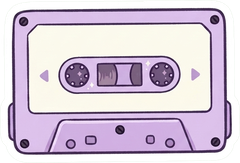
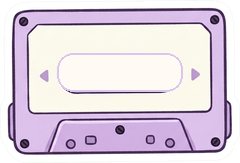
polish(close-v20): animated liquid battery tube, RTL vertical chibi card, clean stickers, compact square music card, chat-width spectrum

Changed region(s): [[0.2333, 0.3067, 0.7875, 0.5828]]

diff --git a/Assets/Xiaoqi/UI2/XqApprovedPresentation.cs b/Assets/Xiaoqi/UI2/XqApprovedPresentation.cs
@@ -125,29 +125,55 @@ namespace Xiaoqi.UI2
             infoRow.Add(_locPill); infoRow.Add(_weatherPill);
             _bodyNext.Add(infoRow);
 
-            // V20 右上角：慢慢来 Q 版探头竖卡（独立挂载到 _host）
+            // V20 右上角：慢慢来 Q 版探头竖卡（瘦长粉紫渐变 + 中文从右到左竖排）
             _remindPill.RemoveFromHierarchy();
             _host.Add(_remindPill);
+            _remindPill.Clear();
             _remindPill.style.position = Position.Absolute;
             _remindPill.style.backgroundImage = StyleKeyword.None;
-            _remindPill.style.backgroundColor = new Color(0.97f, 0.94f, 1.00f, 0.94f);
+            _remindPill.style.backgroundColor = Color.clear;
             SetAllBorder(_remindPill, 1.5f, Color.white);
-            SetRadius(_remindPill, 16f);
+            SetRadius(_remindPill, 14f);
             _remindPill.style.marginLeft = _remindPill.style.marginTop = 0f;
-            _remindPill.style.paddingLeft = _remindPill.style.paddingRight = 10f;
-            _remindPill.style.paddingBottom = 10f;
-            _remindPill.style.paddingTop = 44f;
+            _remindPill.style.paddingLeft = _remindPill.style.paddingRight = 6f;
+            _remindPill.style.paddingBottom = 8f;
+            _remindPill.style.paddingTop = 36f;
             _remindPill.style.justifyContent = Justify.Center;
             _remindPill.style.alignItems = Align.Center;
             _remindPill.style.rotate = new UnityEngine.UIElements.Rotate(new Angle(0f, AngleUnit.Degree));
-            var remLbl = _remindPill.Q<Label>();
-            if (remLbl != null)
+            _remindPill.generateVisualContent += mgc =>
             {
-                remLbl.style.whiteSpace = WhiteSpace.Normal;
-                remLbl.style.unityTextAlign = TextAnchor.MiddleCenter;
-                remLbl.style.color = XqMoonStyle.Ink;
-                remLbl.style.unityFontStyleAndWeight = FontStyle.Bold;
+                var r = _remindPill.contentRect;
+                if (r.width < 4f || r.height < 4f) return;
+                var p = mgc.painter2D;
+                const int bands = 24;
+                for (int i = 0; i < bands; i++)
+                {
+                    float t = i / (float)(bands - 1);
+                    p.fillColor = Color.Lerp(new Color(1.00f, 0.90f, 0.96f, 0.95f), new Color(0.90f, 0.87f, 1.00f, 0.95f), t);
+                    float y0 = r.height * (i / (float)bands);
+                    float y1 = r.height * ((i + 1) / (float)bands) + 0.5f;
+                    p.BeginPath();
+                    p.MoveTo(new Vector2(0f, y0)); p.LineTo(new Vector2(r.width, y0));
+                    p.LineTo(new Vector2(r.width, y1)); p.LineTo(new Vector2(0f, y1));
+                    p.ClosePath(); p.Fill();
+                }
+            };
+            var vRow = new VisualElement { pickingMode = PickingMode.Ignore };
+            vRow.style.flexDirection = FlexDirection.Row;
+            vRow.style.justifyContent = Justify.Center;
+            vRow.style.alignItems = Align.FlexStart;
+            var vLeft = new Label("我\n在\n这\n里\n哦") { pickingMode = PickingMode.Ignore };
+            var vRight = new Label("慢\n慢\n来\n，") { pickingMode = PickingMode.Ignore };
+            foreach (var vl in new[] { vLeft, vRight })
+            {
+                vl.style.color = XqMoonStyle.Ink;
+                vl.style.unityFontStyleAndWeight = FontStyle.Bold;
+                vl.style.unityTextAlign = TextAnchor.UpperCenter;
             }
+            vRight.style.marginLeft = 5f;
+            vRow.Add(vLeft); vRow.Add(vRight);
+            _remindPill.Add(vRow);
             var chibiTex = Resources.Load<Texture2D>("XqChibiPeek");
             if (chibiTex != null)
             {
@@ -289,7 +315,7 @@ namespace Xiaoqi.UI2
             _approvedDock.Add(_approvedQuiet);
 
             string[] badgeTexNames = { "XqBadgeHeart", "XqBadgeCassette", "XqBadgeWindow", "XqBadgeMoon" };
-            string[] badgeTexts = { "摸摸头", "听我说", "看我屏幕", "安静陪伴" };
+            string[] badgeTexts = { "摸摸头", "听我说", "看我屏幕", "嘘" };
             float[] badgeDeg = { -4.0f, 3.0f, 2.0f, -3.0f };
             _badgeImgs.Clear();
             int bi = 0;
@@ -327,13 +353,13 @@ namespace Xiaoqi.UI2
                 bi++;
             }
 
-            // V20 右上角竖向 TOKEN 能量柱（顶部翅膀星星 XqStarTop + 柔紫粉渐变质感）
+            // V20 右上角竖向电量试管（顶部翅膀星星 + 粉紫渐变波浪液体 + 左侧刻度）
             _tokenCapsule = new VisualElement { name = "xq-token-capsule", pickingMode = PickingMode.Ignore };
             _tokenCapsule.style.position = Position.Absolute;
             _tokenCapsule.style.backgroundColor = new Color(1f, 1f, 1f, 0.94f);
             SetAllBorder(_tokenCapsule, 1.5f, new Color(0.84f, 0.78f, 0.96f, 0.95f));
-            _tokenCapsule.style.paddingLeft = _tokenCapsule.style.paddingRight = 5f;
-            _tokenCapsule.style.paddingTop = 10f; _tokenCapsule.style.paddingBottom = 5f;
+            _tokenCapsule.style.paddingLeft = _tokenCapsule.style.paddingRight = 6f;
+            _tokenCapsule.style.paddingTop = 10f; _tokenCapsule.style.paddingBottom = 6f;
             _tokenCapsule.style.alignItems = Align.Center;
             var starTex = Resources.Load<Texture2D>("XqStarTop");
             if (starTex != null)
@@ -342,21 +368,82 @@ namespace Xiaoqi.UI2
                 _tokStarImg.style.position = Position.Absolute;
                 _tokenCapsule.Add(_tokStarImg);
             }
-            var tokHead = new Label("TOKEN") { pickingMode = PickingMode.Ignore };
-            tokHead.style.color = new Color(0.42f, 0.34f, 0.68f, 1f); tokHead.style.unityFontStyleAndWeight = FontStyle.Bold;
+            var tokHead = new Label("电量") { pickingMode = PickingMode.Ignore };
+            tokHead.style.color = new Color(0.32f, 0.24f, 0.56f, 1f); tokHead.style.unityFontStyleAndWeight = FontStyle.Bold;
             tokHead.style.marginBottom = 4f; _marks.Add(tokHead);
-            var tokTrack = new VisualElement { pickingMode = PickingMode.Ignore };
-            tokTrack.style.width = Length.Percent(100f); tokTrack.style.flexGrow = 1f;
-            tokTrack.style.backgroundColor = new Color(0.24f, 0.20f, 0.38f, 0.90f);
-            tokTrack.style.justifyContent = Justify.FlexEnd; tokTrack.style.alignItems = Align.Center;
-            var tokFill = new VisualElement { pickingMode = PickingMode.Ignore };
-            tokFill.style.width = Length.Percent(100f); tokFill.style.height = Length.Percent(80f);
-            tokFill.style.backgroundColor = new Color(0.64f, 0.48f, 0.98f, 0.98f);
-            tokFill.style.alignItems = Align.Center; tokFill.style.paddingTop = 8f;
+            var tokTube = new VisualElement { pickingMode = PickingMode.Ignore };
+            tokTube.style.width = Length.Percent(100f); tokTube.style.flexGrow = 1f;
+            tokTube.style.backgroundColor = new Color(0.97f, 0.95f, 1f, 0.85f);
+            SetAllBorder(tokTube, 1f, new Color(0.76f, 0.68f, 0.94f, 0.85f));
+            tokTube.generateVisualContent += mgc =>
+            {
+                var r = tokTube.contentRect;
+                if (r.width < 8f || r.height < 16f) return;
+                var p = mgc.painter2D;
+                float fill = 0.80f;
+                float phase = Time.realtimeSinceStartup * 2.6f;
+                float surfY = r.height * (1f - fill);
+                // 背面浅紫水波峰
+                p.fillColor = new Color(0.76f, 0.62f, 0.98f, 0.55f);
+                p.BeginPath();
+                p.MoveTo(new Vector2(0f, r.height));
+                for (int s = 0; s <= 12; s++)
+                {
+                    float u = s / 12f;
+                    float wy = surfY - 2f + Mathf.Sin(u * 4.5f - phase) * 3.2f;
+                    p.LineTo(new Vector2(r.width * u, wy));
+                }
+                p.LineTo(new Vector2(r.width, r.height));
+                p.ClosePath(); p.Fill();
+
+                // 主液体：粉桃 -> 柔紫垂直渐变带 + 前景正弦波浪液面
+                const int bands = 20;
+                for (int b = 0; b < bands; b++)
+                {
+                    float t0 = b / (float)bands;
+                    float t1 = (b + 1) / (float)bands;
+                    float y0 = Mathf.Lerp(surfY, r.height, t0);
+                    float y1 = Mathf.Lerp(surfY, r.height, t1) + 0.6f;
+                    p.fillColor = Color.Lerp(new Color(1.00f, 0.84f, 0.92f, 0.96f), new Color(0.70f, 0.54f, 0.98f, 0.98f), (t0 + t1) * 0.5f);
+                    p.BeginPath();
+                    if (b == 0)
+                    {
+                        for (int s = 0; s <= 12; s++)
+                        {
+                            float u = s / 12f;
+                            float wy = surfY + Mathf.Sin(u * 4.8f + phase) * 3.2f;
+                            if (s == 0) p.MoveTo(new Vector2(0f, wy)); else p.LineTo(new Vector2(r.width * u, wy));
+                        }
+                        p.LineTo(new Vector2(r.width, y1)); p.LineTo(new Vector2(0f, y1));
+                    }
+                    else
+                    {
+                        p.MoveTo(new Vector2(0f, y0)); p.LineTo(new Vector2(r.width, y0));
+                        p.LineTo(new Vector2(r.width, y1)); p.LineTo(new Vector2(0f, y1));
+                    }
+                    p.ClosePath(); p.Fill();
+                }
+
+                // 左侧试管刻度线
+                p.strokeColor = new Color(0.46f, 0.36f, 0.72f, 0.72f);
+                p.lineWidth = 1.2f;
+                for (int t = 1; t <= 12; t++)
+                {
+                    float ty = r.height * (t / 13f);
+                    float len = (t % 3 == 0) ? 7f : 4f;
+                    p.BeginPath(); p.MoveTo(new Vector2(2f, ty)); p.LineTo(new Vector2(2f + len, ty)); p.Stroke();
+                }
+            };
+            tokTube.schedule.Execute(() => tokTube.MarkDirtyRepaint()).Every(42);
             _tokPctLbl = new Label("80%") { pickingMode = PickingMode.Ignore };
-            _tokPctLbl.style.color = Color.white; _tokPctLbl.style.unityFontStyleAndWeight = FontStyle.Bold;
-            tokFill.Add(_tokPctLbl); tokTrack.Add(tokFill);
-            _tokenCapsule.Add(tokHead); _tokenCapsule.Add(tokTrack);
+            _tokPctLbl.style.position = Position.Absolute;
+            _tokPctLbl.style.top = Length.Percent(24f);
+            _tokPctLbl.style.left = 0f; _tokPctLbl.style.right = 0f;
+            _tokPctLbl.style.unityTextAlign = TextAnchor.MiddleCenter;
+            _tokPctLbl.style.color = XqMoonStyle.Ink;
+            _tokPctLbl.style.unityFontStyleAndWeight = FontStyle.Bold;
+            tokTube.Add(_tokPctLbl);
+            _tokenCapsule.Add(tokHead); _tokenCapsule.Add(tokTube);
             _host.Add(_tokenCapsule);
         }
 
@@ -369,15 +456,25 @@ namespace Xiaoqi.UI2
             float dockT = height - 88f * k;
 
             SetApprovedRect(_cardNext, width * .026f, height * .042f, 360f * k, 110f * k);
-            SetApprovedRect(_cardMusic, width * .026f, height * .605f, 268f * k, 118f * k);
+            // 音乐卡窄一点高一点，底边与输入框对齐
+            SetApprovedRect(_cardMusic, width * .026f, dockT + dockH - 180f * k, 214f * k, 180f * k);
             if (_bodyMusic != null) { _bodyMusic.style.paddingTop = _bodyMusic.style.paddingBottom = _bodyMusic.style.paddingLeft = _bodyMusic.style.paddingRight = 0f; }
+            // 声浪 bar 与输入框同宽居中，不伸向左右卡片
+            if (_spectrumRow != null)
+            {
+                _spectrumRow.style.left = chatL;
+                _spectrumRow.style.right = StyleKeyword.Auto;
+                _spectrumRow.style.width = chatW;
+                _spectrumRow.style.bottom = height - dockT + 26f * k;
+                _spectrumRow.style.height = 46f * k;
+            }
             // 单行黑字回复紧贴输入框上方右对齐
             SetApprovedRect(_cardSay, chatL, dockT - 26f * k, chatW, 24f * k);
             if (_bodySay != null) { _bodySay.style.paddingTop = _bodySay.style.paddingBottom = _bodySay.style.paddingLeft = _bodySay.style.paddingRight = 0f; }
             SetApprovedRect(_chatDock, chatL, dockT, chatW, dockH);
             SetApprovedRect(_modeDock, width - 224f * k, dockT, 206f * k, dockH);
-            // V20 右下角：正在做的事胶囊位于模式条正上方
-            if (_nextPill != null) SetApprovedRect(_nextPill, width - 224f * k, dockT - 38f * k, 206f * k, 30f * k);
+            // V20 右下角：正在做的事胶囊位于模式条正上方，留出呼吸间距
+            if (_nextPill != null) SetApprovedRect(_nextPill, width - 224f * k, dockT - 42f * k, 206f * k, 30f * k);
             // V20 签名更低更大气，水平居中，与回复之间留出声浪条空间
             if (_plate != null)
             {
@@ -385,46 +482,42 @@ namespace Xiaoqi.UI2
                 _plate.style.rotate = new UnityEngine.UIElements.Rotate(new Angle(0f, AngleUnit.Degree));
             }
 
-            // V20 右上角：慢慢来 Q 版探头竖卡（上）+ TOKEN 能量柱（下）竖向一上一下排列
+            // V20 右上角：瘦长 Q 版探头竖卡（上）+ 电量试管（下）一上一下排列
             if (_remindPill != null)
             {
-                SetApprovedRect(_remindPill, width - 134f * k, height * .085f, 108f * k, 134f * k);
-                SetRadius(_remindPill, 16f * k);
-                _remindPill.style.paddingTop = 44f * k;
-                var remLbl = _remindPill.Q<Label>();
-                if (remLbl != null) remLbl.style.fontSize = 11f * k;
+                SetApprovedRect(_remindPill, width - 108f * k, height * .085f, 78f * k, 146f * k);
+                SetRadius(_remindPill, 14f * k);
+                _remindPill.style.paddingTop = 36f * k;
+                foreach (var vl in _remindPill.Query<Label>().ToList()) vl.style.fontSize = 11.5f * k;
                 if (_chibiPeekImg != null)
                 {
-                    _chibiPeekImg.style.width = 100f * k; _chibiPeekImg.style.height = 78f * k;
-                    _chibiPeekImg.style.left = 4f * k; _chibiPeekImg.style.top = -44f * k;
+                    _chibiPeekImg.style.width = 76f * k; _chibiPeekImg.style.height = 60f * k;
+                    _chibiPeekImg.style.left = 1f * k; _chibiPeekImg.style.top = -36f * k;
                 }
             }
             if (_tokenCapsule != null)
             {
-                SetApprovedRect(_tokenCapsule, width - 108f * k, height * .085f + 168f * k, 56f * k, 142f * k);
+                SetApprovedRect(_tokenCapsule, width - 96f * k, height * .085f + 174f * k, 56f * k, 148f * k);
                 SetRadius(_tokenCapsule, 22f * k);
                 if (_tokStarImg != null)
                 {
                     _tokStarImg.style.width = 54f * k; _tokStarImg.style.height = 34f * k;
                     _tokStarImg.style.left = 0f; _tokStarImg.style.top = -22f * k;
                 }
-                if (_tokPctLbl != null) { _tokPctLbl.style.fontSize = 10.5f * k; _tokPctLbl.style.color = Color.white; }
+                if (_tokPctLbl != null) { _tokPctLbl.style.fontSize = 11f * k; _tokPctLbl.style.color = XqMoonStyle.Ink; }
                 foreach (var child in _tokenCapsule.Children())
                 {
                     if (child is VisualElement && !(child is Label) && !(child is Image))
-                    {
                         SetRadius(child, 16f * k);
-                        if (child.childCount > 0) SetRadius(child[0], 16f * k);
-                    }
                 }
             }
 
-            // 左右各 2 个贴纸本体围绕小祈四散布局
+            // 左右各 2 个贴纸本体围绕小祈四散布局（保持原始比例不压扁）
             SetApprovedRect(_approvedDock, 0f, height * .22f, width, height * .42f);
             float[] lx = { width * .195f, width * .175f, width * .695f, width * .725f };
             float[] ly = { 4f * k, 108f * k, 0f, 106f * k };
-            float[] lw = { 92f * k, 100f * k, 106f * k, 90f * k };
-            float[] lh = { 78f * k, 68f * k, 74f * k, 92f * k };
+            float[] lw = { 94f * k, 100f * k, 106f * k, 88f * k };
+            float[] lh = { 80f * k, 68f * k, 74f * k, 90f * k };
             int idx = 0;
             foreach (var el in _approvedDock.Children())
             {
@@ -432,10 +525,10 @@ namespace Xiaoqi.UI2
                 el.style.top = ly[idx % 4];
                 el.style.width = lw[idx % 4];
                 el.style.height = lh[idx % 4];
-                el.style.paddingTop = idx == 2 ? 12f * k : (idx == 3 ? 16f * k : 0f);
-                el.style.paddingLeft = idx == 3 ? 6f * k : 0f;
+                el.style.paddingTop = idx == 2 ? 12f * k : (idx == 3 ? 10f * k : 0f);
+                el.style.paddingLeft = idx == 3 ? 8f * k : 0f;
                 var lbl = el.Q<Label>();
-                if (lbl != null) lbl.style.fontSize = 11.5f * k;
+                if (lbl != null) lbl.style.fontSize = idx == 3 ? 16f * k : 11.5f * k;
                 idx++;
             }
 
